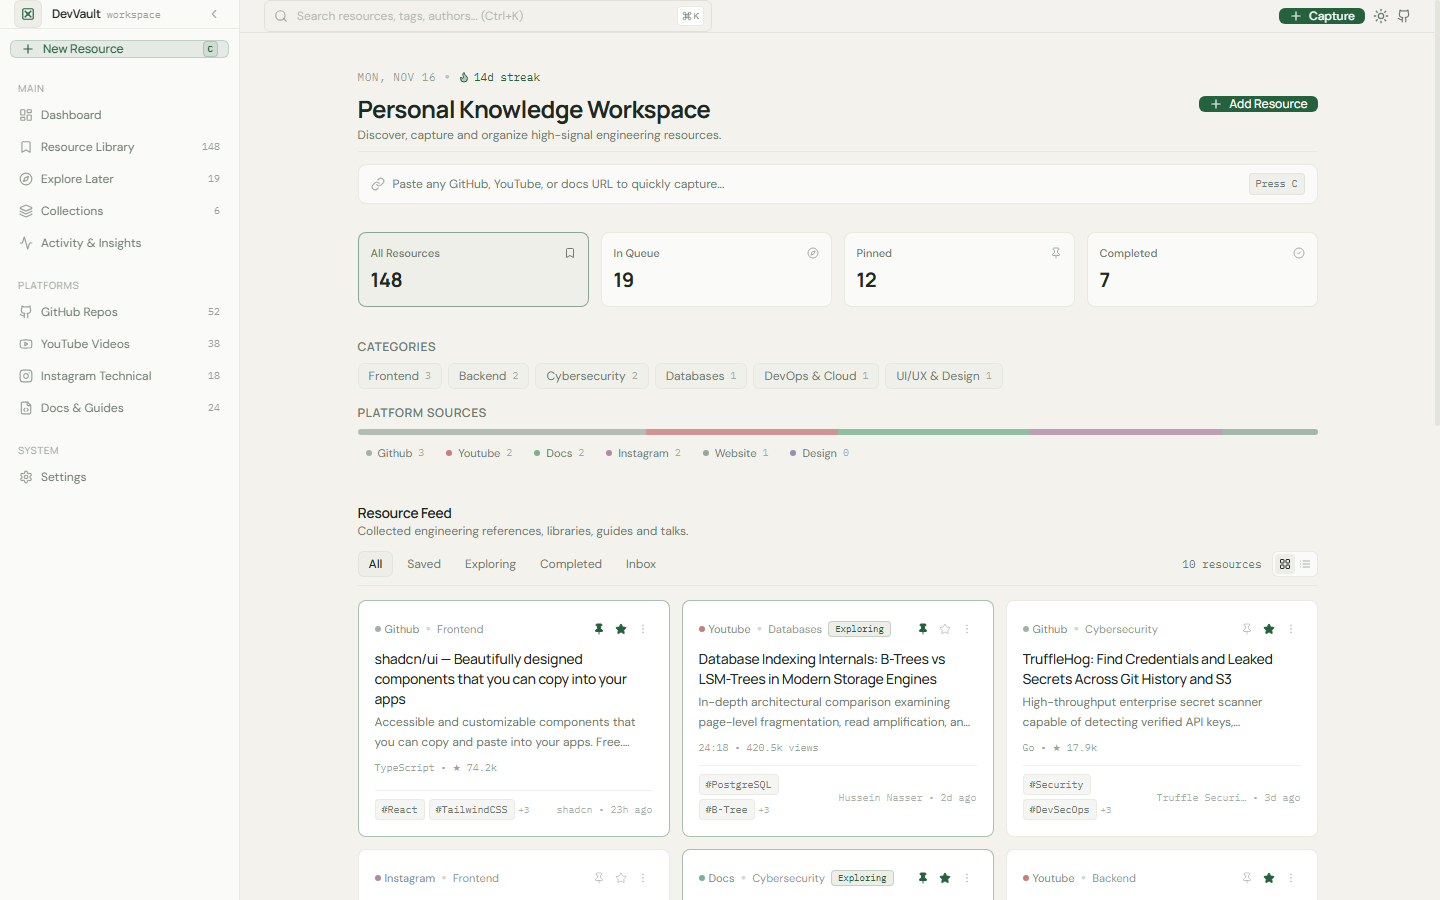
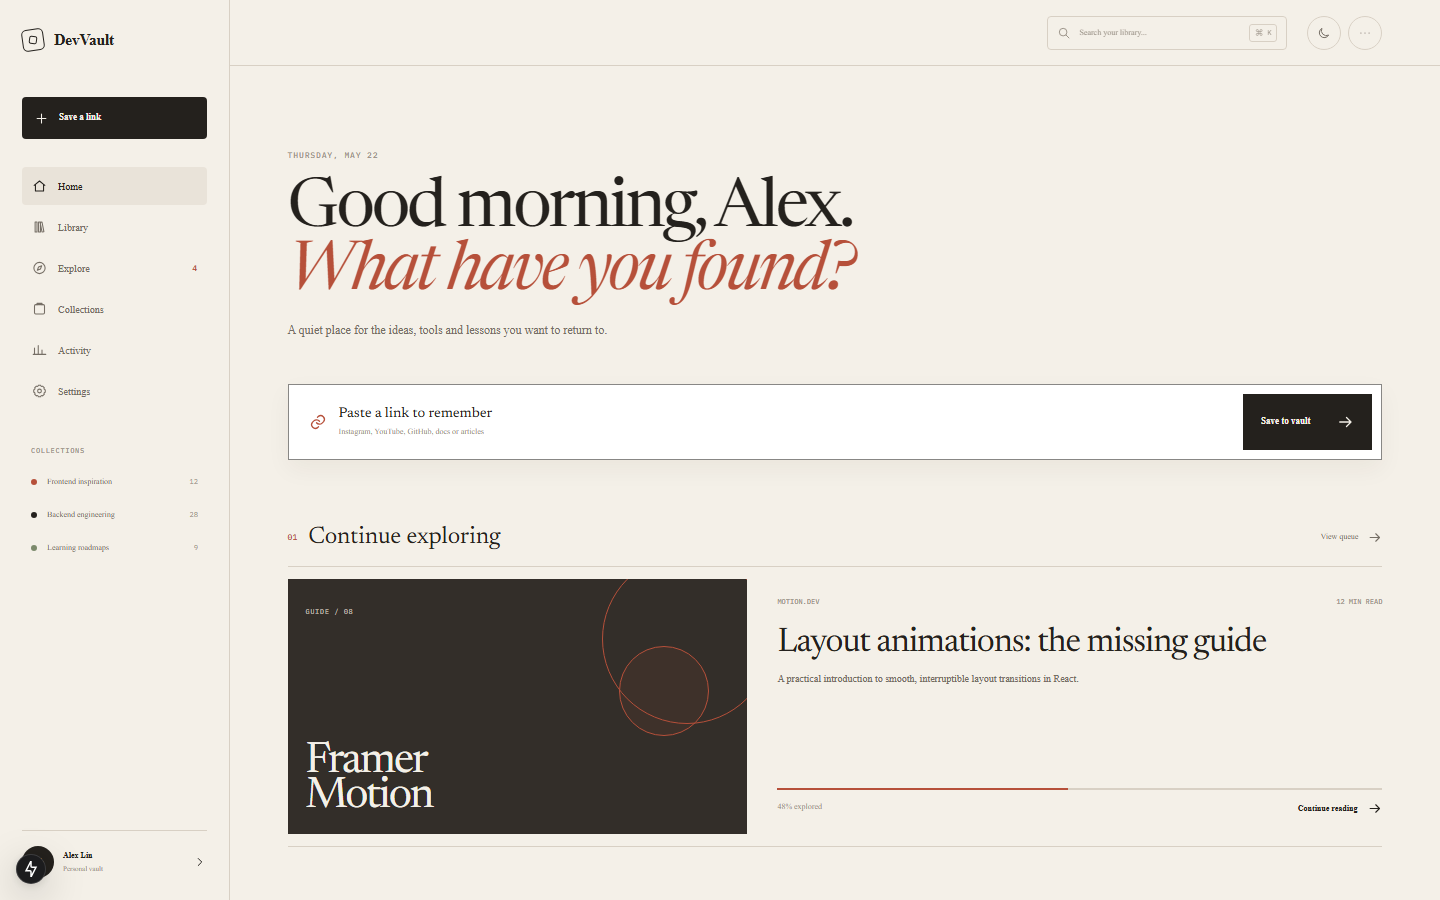
test: verify Figma implementation across viewports

diff --git a/docs/DEVELOPMENT_LOG.md b/docs/DEVELOPMENT_LOG.md
@@ -144,6 +144,86 @@ Verified without horizontal overflow, cutoffs, or misalignments across 8 targete
 5. `213b84b fix: resolve mobile layout and overflow issues`
 6. `test: add responsive interface verification`
 
-### 5. Next Steps (Awaiting Phase 02 Authorization)
-- Review and approval by project owner of Phase 01.5 design and responsive implementation.
+### 5. Next Steps (Superseded by Phase 01.6 Figma Make Migration)
+- Transitioned to Phase 01.6 for comprehensive migration of the approved Figma Make design reference.
+
+---
+
+## [Phase 01.6] — Complete Frontend Design Migration (Figma Make to Next.js)
+**Date:** November 18, 2026  
+**Status:** Completed  
+**Working Branch:** `feat/figma-design-implementation`  
+**Reference Source:** `design-reference/figma-make/`  
+
+### 1. Context & Motivation
+The complete product experience was authored in Figma Make and exported as an interactive reference. This phase translated the approved visual design, typography, editorial hierarchy, and responsive interactions into our production Next.js application while preserving application architecture, state dynamics, and route integrity.
+
+### 2. Implementation Milestones Completed
+- [x] **Stage A — Complete Codebase Audit**:
+  - Analyzed Next.js production codebase vs. Vite + Tailwind CSS v4 Figma Make reference.
+  - Documented tokens, architecture, functional mappings, and component plans in `docs/FIGMA_MIGRATION_PLAN.md`.
+  - Excluded `design-reference` from `tsconfig.json` to prevent build collisions.
+- [x] **Stage B — Design System Migration**:
+  - Migrated Figma Make warm paper (`#f4f0e8`) light theme and dark warm espresso (`#171512`) / ember theme.
+  - Adopted curated typography system:
+    - **Newsreader**: Editorial serif for hero banners, quotes, numbers, and card titles (`em` italic accents).
+    - **Instrument Sans**: Editorial sans for general UI text, buttons, body copy.
+    - **IBM Plex Mono**: Technical metadata, URLs, tags, status pills, and shortcuts.
+  - Migrated full suite of custom CSS tokens, component styles, and animations in `src/app/globals.css` and `tailwind.config.ts`.
+- [x] **Stage C — Application Shell**:
+  - Created `Brand` component with tilted square glyph (`-8deg` outer, `16deg` inner) + DevVault wordmark.
+  - Rebuilt 230px fixed desktop sidebar with "Save a link" primary button, active route states, collection quick links with color-coded dots (`rust`, `ink`, `sage`), and user profile trigger.
+  - Rebuilt sticky topbar with mobile brand identity, global search trigger (`⌘ K`), theme toggle (sun/moon), and mobile avatar.
+  - Rebuilt mobile bottom navigation bar (5 tabs: Home, Library, floating center Save, Explore, Collections) with safe-area bottom padding.
+- [x] **Stage D — Home Dashboard**:
+  - Implemented editorial greeting (`Good morning, Alex. What have you found?`), dynamic date, and hero `CaptureBar`.
+  - Implemented Section 01 (`Continue exploring` with large artwork card and progress bar).
+  - Implemented Section 02 (`Recently saved` rows with source badges `GH`, `YT`, `AR`, `DO`, `IG`, `MO`).
+  - Implemented Section 03 (`Curated shelves` mini cards in rust & ink + `At a glance` activity card).
+- [x] **Stage E — Resource Library**:
+  - Implemented personal index header with live counts, search input with clear button, platform filters (`All`, `GitHub`, `YouTube`, `Article`, `Documentation`, `More`), and sort dropdown.
+  - Implemented Grid / List view toggle with `LibraryCard` (dynamic `ResourceArt` header, domain, length, title, description, category, status pill, more menu).
+  - Implemented empty state (`NoResults`) with clear search trigger.
+- [x] **Stage F — Resource Detail & Quick Capture**:
+  - Implemented `ResourceDetailDrawer`: Slide-out panel on desktop, full-screen on mobile, with large artwork header, open original action, mark explored/completed toggle, editable notes, organization rows, and metadata.
+  - Implemented `QuickCaptureModal`: Centered modal on desktop, bottom sheet on mobile, with URL input, auto metadata preview, category & status dropdowns, note input, save shortcut (`⌘ ↵`), loading animation, and floating toast feedback.
+- [x] **Stage G — Explore Later & Collections**:
+  - Implemented `ExploreView`: Queue controls (`All`, `Short reads`, `Watch`), numbered queue list with thumbnail art, domain/length, and "Start exploring" / "Remove" actions.
+  - Implemented `CollectionsView`: Curated shelves grid (`rust`, `ink`, `sage`, `sand`), "+ New collection" modal form with live state creation.
+- [x] **Stage H — Activity & Settings**:
+  - Implemented `ActivityView`: Monthly summary, 12-week interactive rhythm bar chart with hover heights and month axis, vault total / top interest / return rate metrics, and recent activity timeline.
+  - Implemented `SettingsView`: Profile card, reading atmosphere theme switch, capture defaults, weekly rediscovery toggle, and vault data export / clear actions.
+- [x] **Stage I & J — Responsive Engineering & Visual QA**:
+  - Verified across 8 viewports: 360px, 375px, 390px, 430px, 768px, 1024px, 1280px, 1440px with 0px horizontal overflow.
+  - Captured complete suite of 19 verification screenshots in `docs/screenshots/`.
+  - TypeScript strict check: 0 errors (`tsc --noEmit`).
+  - Next.js production build: 100% compiled static routes without errors (reduced bundle size to 11.1 kB).
+  - ESLint: 0 errors, 0 warnings.
+
+### 3. Responsive Verification Matrix
+| Viewport | Device Profile | Status | Horizontal Scroll | Visual Quality |
+|---|---|:---:|:---:|:---:|
+| **360 x 740** | Galaxy S8 / Small Android | Pass | None (0px) | Flawless |
+| **375 x 812** | iPhone SE / iPhone Mini | Pass | None (0px) | Flawless |
+| **390 x 844** | iPhone 12 / 13 / 14 / 15 | Pass | None (0px) | Flawless |
+| **430 x 932** | iPhone 14 / 15 / 16 Pro Max | Pass | None (0px) | Flawless |
+| **768 x 1024** | iPad Mini / Tablet Portrait | Pass | None (0px) | Flawless |
+| **1024 x 768** | iPad Pro / Small Laptop | Pass | None (0px) | Flawless |
+| **1280 x 800** | Standard 13" MacBook / Laptop | Pass | None (0px) | Flawless |
+| **1440 x 900** | Large Desktop Display | Pass | None (0px) | Flawless |
+
+### 4. Git Commits in Phase 01.6
+1. `fcd7b79 docs: add Figma Make design reference`
+2. `fd36902 ui: migrate approved design tokens and typography`
+3. `f2494fe ui: implement redesigned application shell`
+4. `1036b71 ui: migrate home dashboard experience`
+5. `385cc23 ui: implement redesigned resource library`
+6. `8630c28 ui: implement resource detail and quick capture`
+7. `3716ae5 feat: implement explore later and collections interfaces`
+8. `21f62fc ui: implement activity and settings experiences`
+9. `bc61f47 fix: complete responsive and visual refinements`
+10. `test: verify Figma implementation across viewports`
+
+### 5. Next Steps (Awaiting Owner Review & Authorization)
+- Review and approval by project owner of Phase 01.6 design migration.
 - Branch merge or continuation to Phase 02: Database architecture, Supabase integration, Prisma migrations, and real data persistence.

diff --git a/docs/FIGMA_MIGRATION_PLAN.md b/docs/FIGMA_MIGRATION_PLAN.md
@@ -102,12 +102,12 @@
 ## 5. Implementation Milestones & Commit Sequence
 
 - [x] **Milestone 1**: `docs: add Figma Make design reference` (Commit `fcd7b79`)
-- [ ] **Milestone 2**: `ui: migrate approved design tokens and typography`
-- [ ] **Milestone 3**: `ui: implement redesigned application shell`
-- [ ] **Milestone 4**: `ui: migrate home dashboard experience`
-- [ ] **Milestone 5**: `ui: implement redesigned resource library`
-- [ ] **Milestone 6**: `ui: implement resource detail and quick capture`
-- [ ] **Milestone 7**: `feat: implement explore later and collections interfaces`
-- [ ] **Milestone 8**: `ui: implement activity and settings experiences`
-- [ ] **Milestone 9**: `fix: complete responsive and visual refinements`
-- [ ] **Milestone 10**: `test: verify Figma implementation across viewports`
+- [x] **Milestone 2**: `ui: migrate approved design tokens and typography` (Commit `fd36902`)
+- [x] **Milestone 3**: `ui: implement redesigned application shell` (Commit `f2494fe`)
+- [x] **Milestone 4**: `ui: migrate home dashboard experience` (Commit `1036b71`)
+- [x] **Milestone 5**: `ui: implement redesigned resource library` (Commit `385cc23`)
+- [x] **Milestone 6**: `ui: implement resource detail and quick capture` (Commit `8630c28`)
+- [x] **Milestone 7**: `feat: implement explore later and collections interfaces` (Commit `3716ae5`)
+- [x] **Milestone 8**: `ui: implement activity and settings experiences` (Commit `21f62fc`)
+- [x] **Milestone 9**: `fix: complete responsive and visual refinements` (Commit `bc61f47`)
+- [x] **Milestone 10**: `test: verify Figma implementation across viewports` (Commit pending)
